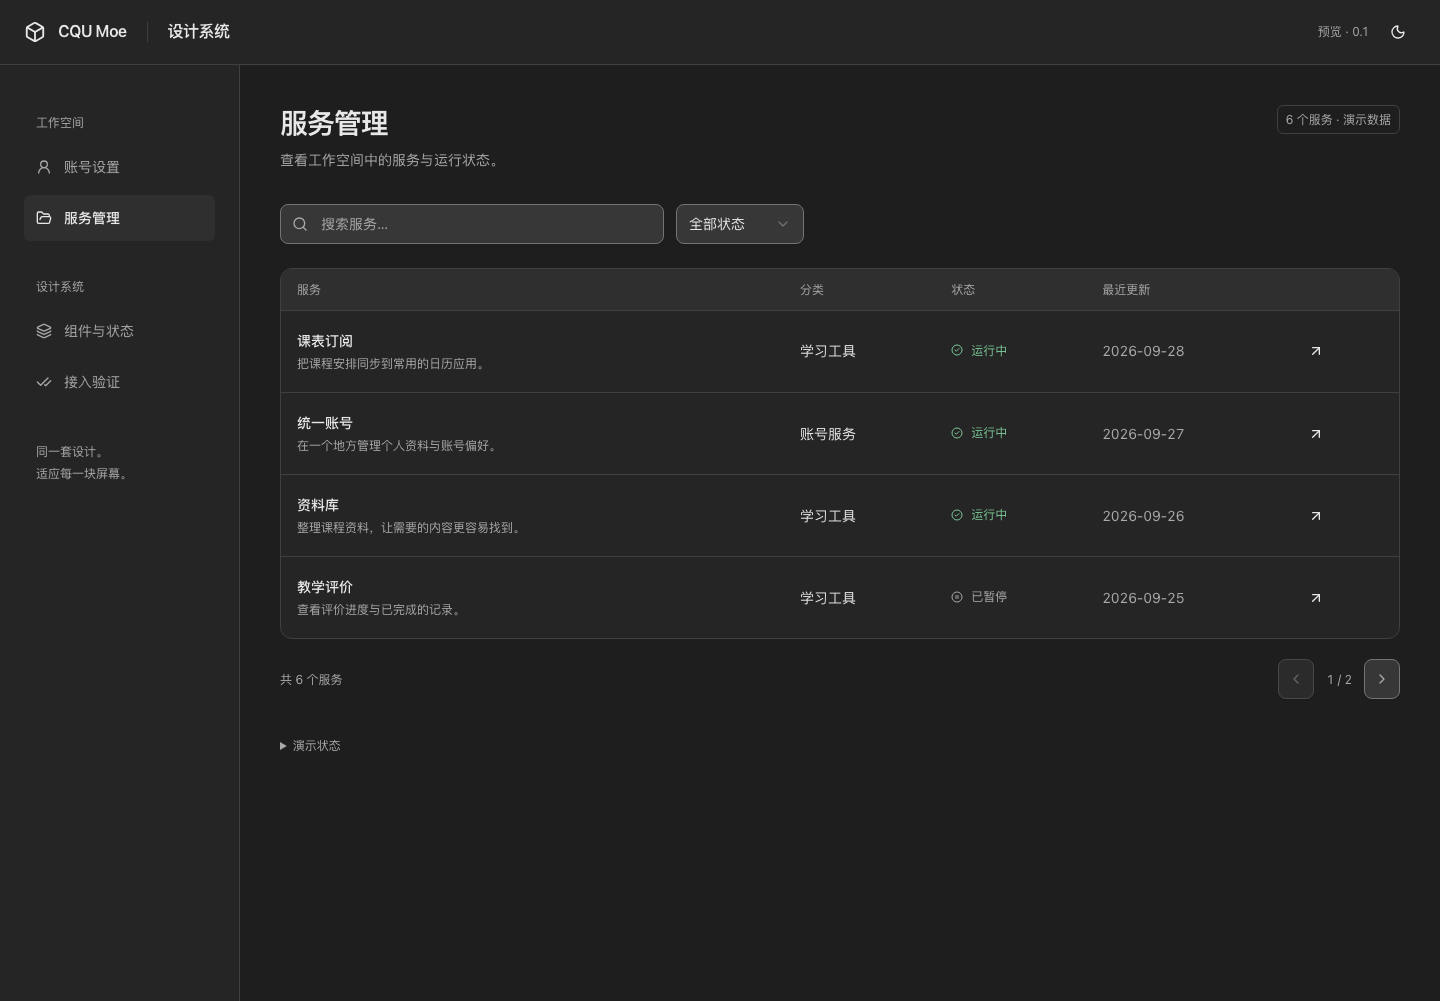
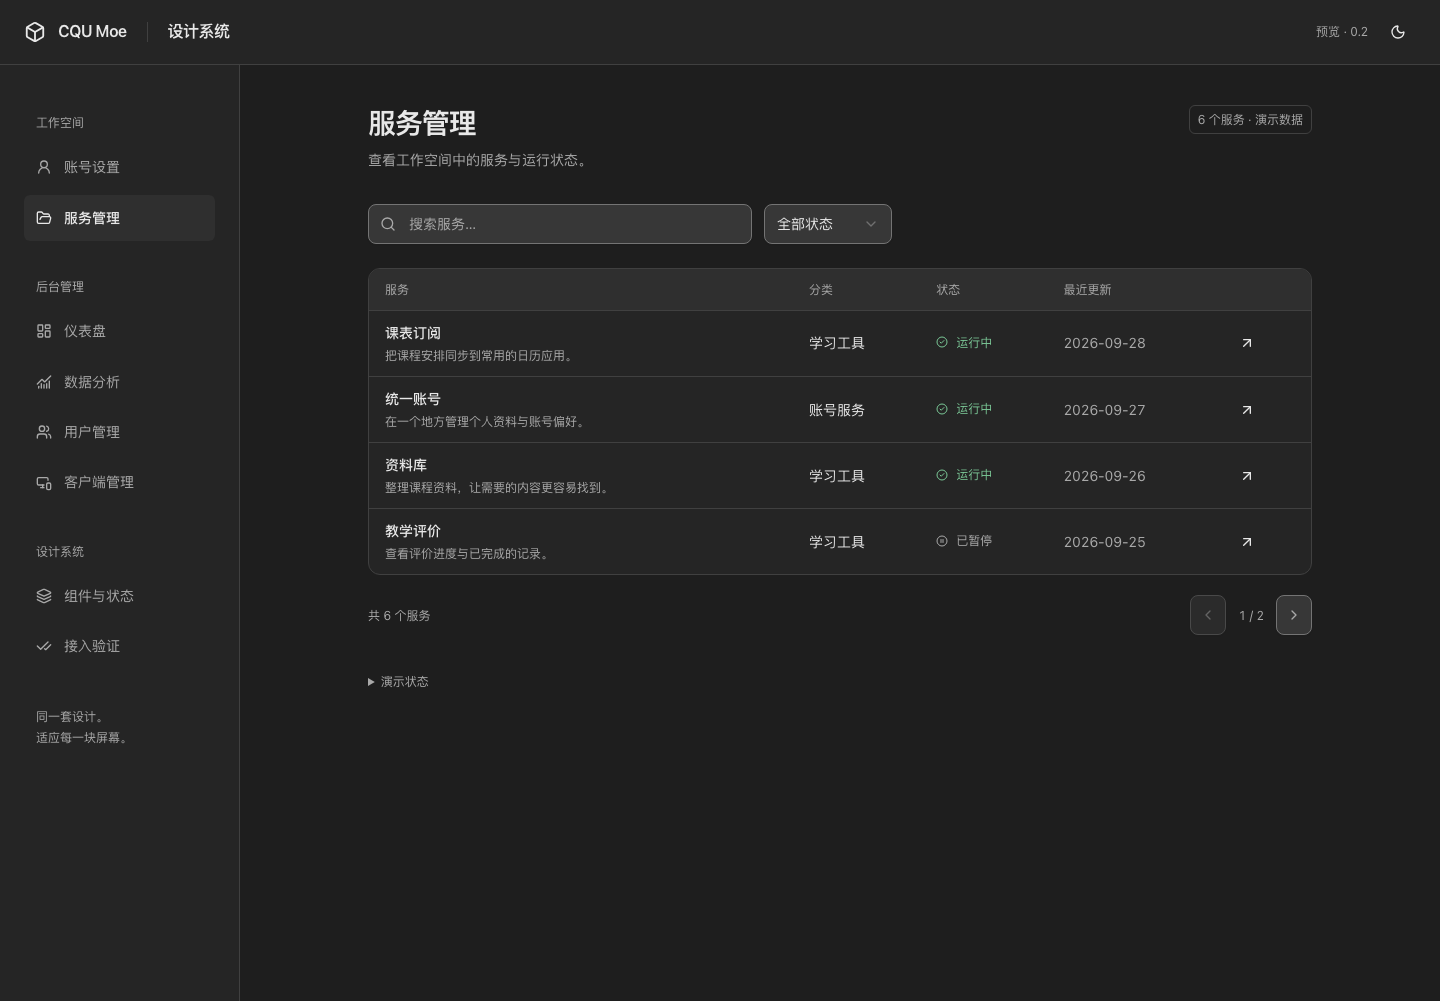
fix: compact bulk actions and preserve focus after filtering

diff --git a/apps/preview/src/pages/admin/users.tsx b/apps/preview/src/pages/admin/users.tsx
@@ -52,6 +52,11 @@ export function Users() {
   const [error, setError] = useState('');
   const [message, setMessage] = useState('');
   const trigger = useRef<HTMLButtonElement | null>(null);
+  const searchRef = useRef<HTMLInputElement | null>(null);
+  function restoreFocus(target: HTMLButtonElement | null) {
+    if (target?.isConnected && !target.disabled) target.focus();
+    else searchRef.current?.focus();
+  }
   const filtered = users.filter(
     (user) =>
       `${user.name} ${user.email}`.toLowerCase().includes(query.toLowerCase()) &&
@@ -172,6 +177,7 @@ export function Users() {
         <div className="search-field">
           <Search aria-hidden="true" />
           <Input
+            ref={searchRef}
             type="search"
             aria-label="搜索用户"
             placeholder="搜索姓名或邮箱…"
@@ -221,41 +227,57 @@ export function Users() {
         </div>
       )}
       {selected.size > 0 && (
-        <div className="bulk-toolbar">
-          <strong>已选择 {selected.size} 位用户</strong>
-          <Select value={bulkAction} onValueChange={(value) => setBulkAction(value as BulkAction)}>
-            <SelectTrigger aria-label="批量操作">
-              <SelectValue placeholder="选择批量操作" />
-            </SelectTrigger>
-            <SelectContent>
-              {Object.entries(bulkLabels).map(([value, label]) => (
-                <SelectItem value={value} key={value}>
-                  {label}
-                </SelectItem>
-              ))}
-            </SelectContent>
-          </Select>
-          <Button
-            disabled={!bulkAction}
-            onClick={(event) => {
-              if (!bulkAction) return;
-              bulkTrigger.current = event.currentTarget;
-              setBulkDraft({ action: bulkAction, ids: [...selected] });
-              setBulkOpen(true);
-            }}
-          >
-            应用更改
-          </Button>
-          <Button
-            variant="ghost"
-            onClick={() => {
-              setSelected(new Set());
-              setBulkAction('');
-            }}
-          >
-            清空选择
-          </Button>
-          <span>跨页保留选择，修改筛选时清空。</span>
+        <div
+          className="bulk-toolbar"
+          role="region"
+          aria-label="批量操作工具栏"
+          aria-describedby="bulk-help"
+        >
+          <div className="bulk-selection">
+            <strong title="跨页保留选择，修改筛选时清空。">已选择 {selected.size} 位用户</strong>
+            <Button
+              size="sm"
+              variant="ghost"
+              onClick={() => {
+                setSelected(new Set());
+                setBulkAction('');
+              }}
+            >
+              清除选择
+            </Button>
+          </div>
+          <div className="bulk-actions">
+            <Select
+              value={bulkAction}
+              onValueChange={(value) => setBulkAction(value as BulkAction)}
+            >
+              <SelectTrigger size="sm" aria-label="批量操作">
+                <SelectValue placeholder="选择批量操作" />
+              </SelectTrigger>
+              <SelectContent>
+                {Object.entries(bulkLabels).map(([value, label]) => (
+                  <SelectItem value={value} key={value}>
+                    {label}
+                  </SelectItem>
+                ))}
+              </SelectContent>
+            </Select>
+            <Button
+              size="sm"
+              disabled={!bulkAction}
+              onClick={(event) => {
+                if (!bulkAction) return;
+                bulkTrigger.current = event.currentTarget;
+                setBulkDraft({ action: bulkAction, ids: [...selected] });
+                setBulkOpen(true);
+              }}
+            >
+              应用更改
+            </Button>
+          </div>
+          <span id="bulk-help" className="sr-only">
+            跨页保留选择，修改筛选时清空。
+          </span>
         </div>
       )}
       <p className="table-scroll-hint">左右滑动查看完整表格</p>
@@ -384,8 +406,7 @@ export function Users() {
         <DialogContent
           onCloseAutoFocus={(event) => {
             event.preventDefault();
-            if (bulkTrigger.current?.isConnected) bulkTrigger.current.focus();
-            else document.getElementById('select-all-users')?.focus();
+            restoreFocus(bulkTrigger.current);
           }}
         >
           <DialogTitle>确认批量更改</DialogTitle>
@@ -422,7 +443,7 @@ export function Users() {
         <DialogContent
           onCloseAutoFocus={(event) => {
             event.preventDefault();
-            trigger.current?.focus();
+            restoreFocus(trigger.current);
           }}
           onOpenAutoFocus={(event) => {
             if (matchMedia('(pointer: coarse)').matches) {

diff --git a/tests/user-management.browser.spec.ts b/tests/user-management.browser.spec.ts
@@ -45,3 +45,34 @@ test('advanced filters apply together, validate dates, reset and clear selection
   await page.getByRole('button', { name: '重置全部筛选', exact: true }).click();
   await expect(page.getByText('共 6 位用户', { exact: true })).toBeVisible();
 });
+
+test('editing a filtered-out row returns focus to search', async ({ page }) => {
+  await page.goto('/admin/users');
+  const search = page.getByRole('searchbox', { name: '搜索用户' });
+  await search.fill('林同学');
+  await page.getByRole('button', { name: '编辑林同学' }).click();
+  await page.getByRole('dialog').getByLabel('显示名称', { exact: true }).fill('已改名');
+  await page.getByRole('button', { name: '保存用户' }).click();
+  await expect(page.getByRole('dialog')).not.toBeVisible();
+  await expect(search).toBeFocused();
+});
+test('bulk operation that empties the filter returns focus to search', async ({ page }) => {
+  await page.goto('/admin/users');
+  await page.getByRole('combobox', { name: '筛选用户状态' }).click();
+  await page.getByRole('option', { name: '正常', exact: true }).click();
+  await page.getByRole('checkbox', { name: '选择本页全部用户' }).check();
+  await page.getByRole('combobox', { name: '批量操作' }).click();
+  await page.getByRole('option', { name: '停用账号', exact: true }).click();
+  await page.getByRole('button', { name: '应用更改', exact: true }).click();
+  await page.getByRole('button', { name: '确认应用', exact: true }).click();
+  await expect(page.getByRole('dialog')).not.toBeVisible();
+  await expect(page.getByRole('checkbox', { name: '选择本页全部用户' })).toBeDisabled();
+  await expect(page.getByRole('searchbox', { name: '搜索用户' })).toBeFocused();
+});
+
+test('desktop bulk toolbar remains a compact single row', async ({ page }) => {
+  await page.setViewportSize({ width: 1000, height: 900 });
+  await page.goto('/admin/users');
+  await page.getByRole('checkbox', { name: '选择本页全部用户' }).check();
+  expect((await page.locator('.bulk-toolbar').boundingBox())!.height).toBeLessThanOrEqual(52);
+});

diff --git a/apps/preview/src/styles.css b/apps/preview/src/styles.css
@@ -886,8 +886,8 @@ code {
   display: flex;
   flex-wrap: wrap;
   align-items: center;
-  gap: var(--space-3);
-  padding: var(--space-3) var(--space-4);
+  gap: var(--space-2);
+  padding: var(--space-2) var(--space-3);
   background: var(--muted);
   border: 1px solid var(--border);
   border-radius: var(--radius);
@@ -902,7 +902,7 @@ code {
   color: var(--muted-foreground);
 }
 .bulk-toolbar [data-slot='select-trigger'] {
-  min-width: 10rem;
+  min-width: 8rem;
 }
 .admin-table .selection-column {
   width: var(--space-12);
@@ -960,4 +960,20 @@ code {
   .bulk-toolbar > span {
     flex-basis: 100%;
   }
+}
+
+.bulk-toolbar {
+  justify-content: space-between;
+}
+.bulk-selection,
+.bulk-actions {
+  display: flex;
+  align-items: center;
+  gap: var(--space-2);
+}
+.bulk-selection {
+  flex-shrink: 0;
+}
+.bulk-actions {
+  margin-left: auto;
 }

diff --git a/packages/ui/src/styles.css b/packages/ui/src/styles.css
@@ -209,3 +209,10 @@
     height: 15rem;
   }
 }
+
+@media (pointer: fine) {
+  .ds-button[data-size='sm'],
+  [data-slot='select-trigger'][data-size='sm'] {
+    min-height: 2rem;
+  }
+}

diff --git a/docs/delivery.md b/docs/delivery.md
@@ -1,11 +1,11 @@
-# 首版交付记录
+# 设计系统交付记录
 
-版本：theme / ui 0.1.0。全部代码在本地，未发布包、未部署网站、未迁移现有系统。
+当前版本：theme / ui 0.2.0。全部代码在本地，未发布包、未部署网站、未迁移现有系统。
 
 ## 验证证据
 
 - pnpm check：生产构建、TypeScript、5 项主题逻辑测试、5 项设计与分发检查测试通过。
-- pnpm test:e2e：25 项 Chromium 浏览器测试通过，包含双主题、多宽度、触屏、键盘、减少动态效果、主题同步和演示业务流程。
+- pnpm test:e2e：41 项 Chromium 浏览器测试通过，包含双主题、多宽度、触屏、键盘、减少动态效果、主题同步和演示业务流程。
 - pnpm verify:consumer：两个 tarball 在独立应用中安装，类型和生产构建通过；React 实例一致，CSS 不依赖共享源码扫描，主题和移动导航可用。记录见 consumer-verification.json。
 - 独立 Agent 只凭入口文档制作页面，主 Agent 对产物执行类型、规则及交互验证。见 agent-verification.md。
 - 截图及颜色测量见 visual-review.md、screenshots/、contrast.json。
@@ -39,3 +39,15 @@
 审查明确未覆盖真实业务 API、SSR Provider、registry 发布、蓄意绕过检查器、跨浏览器/真机验收及用户视觉批准。这些均保持既定范围或待验收状态，不作为已完成事项。没有延期处理的 Minor。
 
 路由分包后的首次加载增加明确的状态反馈，HydrateFallback 警告已由回归测试覆盖。
+
+## 0.2.0 迭代
+
+- 账号设置改为三个水平子页面，支持方向切换，草稿保留，内联保存与全局保存相互独立。跨子页面校验在输入框实际挂载时聚焦错误字段。
+- 服务列表采用 64rem 紧凑容器与更小行距。
+- 新增仪表盘、图表、用户及客户端管理。后台状态在路由间共享，均为内存演示。
+- 用户支持本页全选、跨页选择、确认后批量启用/停用/修改角色；支持 5/10/20/50 条分页与高级组合筛选。
+- 批量工具栏压缩为桌面单行：左侧选择人数与清除，右侧操作与应用；触屏仍保留 44px 点击区域。
+- 新增 Tabs 与 @cqu-moe/ui/charts 公共入口，Recharts 按图表路由加载。每张图可展开数据表。
+
+本轮独立审查发现两个焦点返回问题：编辑后原行被筛掉、批量操作后筛选结果为空。均已用失败回归复现，再统一回退到仍可用的搜索框，测试通过。
+独立消费验证已包含图表子路径、图表渲染和数据表。真实设备与视觉最终确认的边界不变。

diff --git a/docs/iterations/2026-09-29-admin-example.md b/docs/iterations/2026-09-29-admin-example.md
@@ -19,3 +19,5 @@
 ## 用户管理补充要求
 
 用户随后要求批量选择与 apply、手动分页大小、高级筛选 UI。已补充本页全选/部分选择、跨页保留、确认后批量启用/停用/修改角色；分页支持 5/10/20/50 条；高级筛选组合角色、状态、邮箱域名和加入日期，附条件标签、重置与日期校验。修改筛选清空选择，避免隐含操作隐藏用户。
+
+最终用户反馈要求压低批量工具栏并左右分组，已调整为选择信息靠左、操作与应用靠右。桌面高度由约 97px 压到约 50px，触屏保留必要尺寸。独立审查的两处焦点返回问题已修复并留下回归。

diff --git a/docs/visual-review.md b/docs/visual-review.md
@@ -20,3 +20,5 @@
 技能使用：emil-ask-emil 路由 foundations/color/forms；animate 与 css-techniques 决定动效；touch-and-accessibility 与 ui-review 用于复核。
 
 最终独立审查补充了组件实际合成色检查，修复了深色危险按钮对比度及菜单选项触屏高度。Token 对比度报告只描述 token 配对，不能替代组件状态测试。
+
+0.2.0 新截图由 capture-admin.mjs 生成，覆盖后台模块、设置子页面、用户批量工具栏与高级筛选。用户已对布局提出并确认迭代方向，具体视觉仍可继续调整；未进行真机验收。
